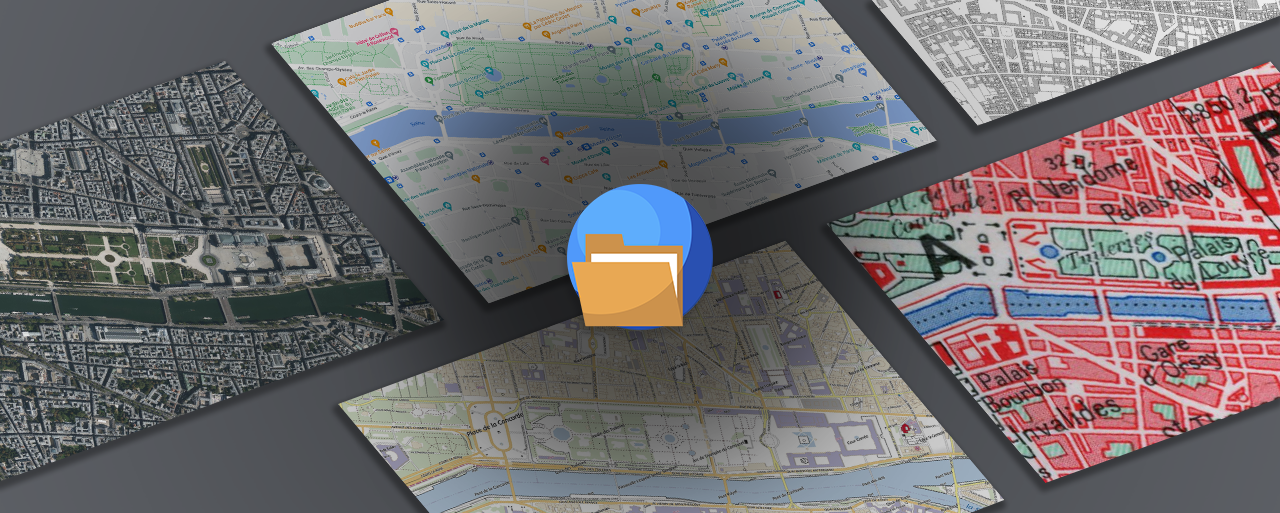
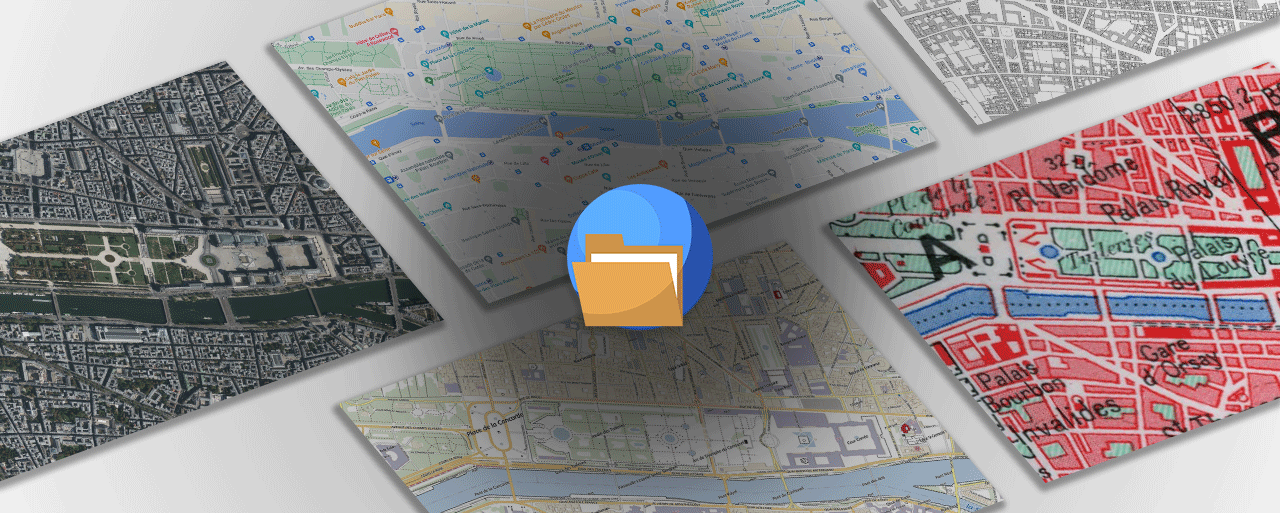
Changed MIMF hero to a transparent background

Changed region(s): [[0.0, 0.0, 0.4688, 1.0], [0.5312, 0.0, 1.0, 1.0]]

diff --git a/README.md b/README.md
@@ -1,4 +1,4 @@
-![MIMF Banner](MapsInMyFolder/Media/MIMF_hero.jpg)
+![MIMF Banner](MapsInMyFolder/Media/MIMF_hero.png)
 
 <p align="center">
 <a href="https://github.com/SioGabx/MapsInMyFolder/releases"><img alt="GitHub all releases" src="https://img.shields.io/github/downloads/SioGabx/MapsInMyFolder/total?color=%2316d68a&logo=github"></a>
